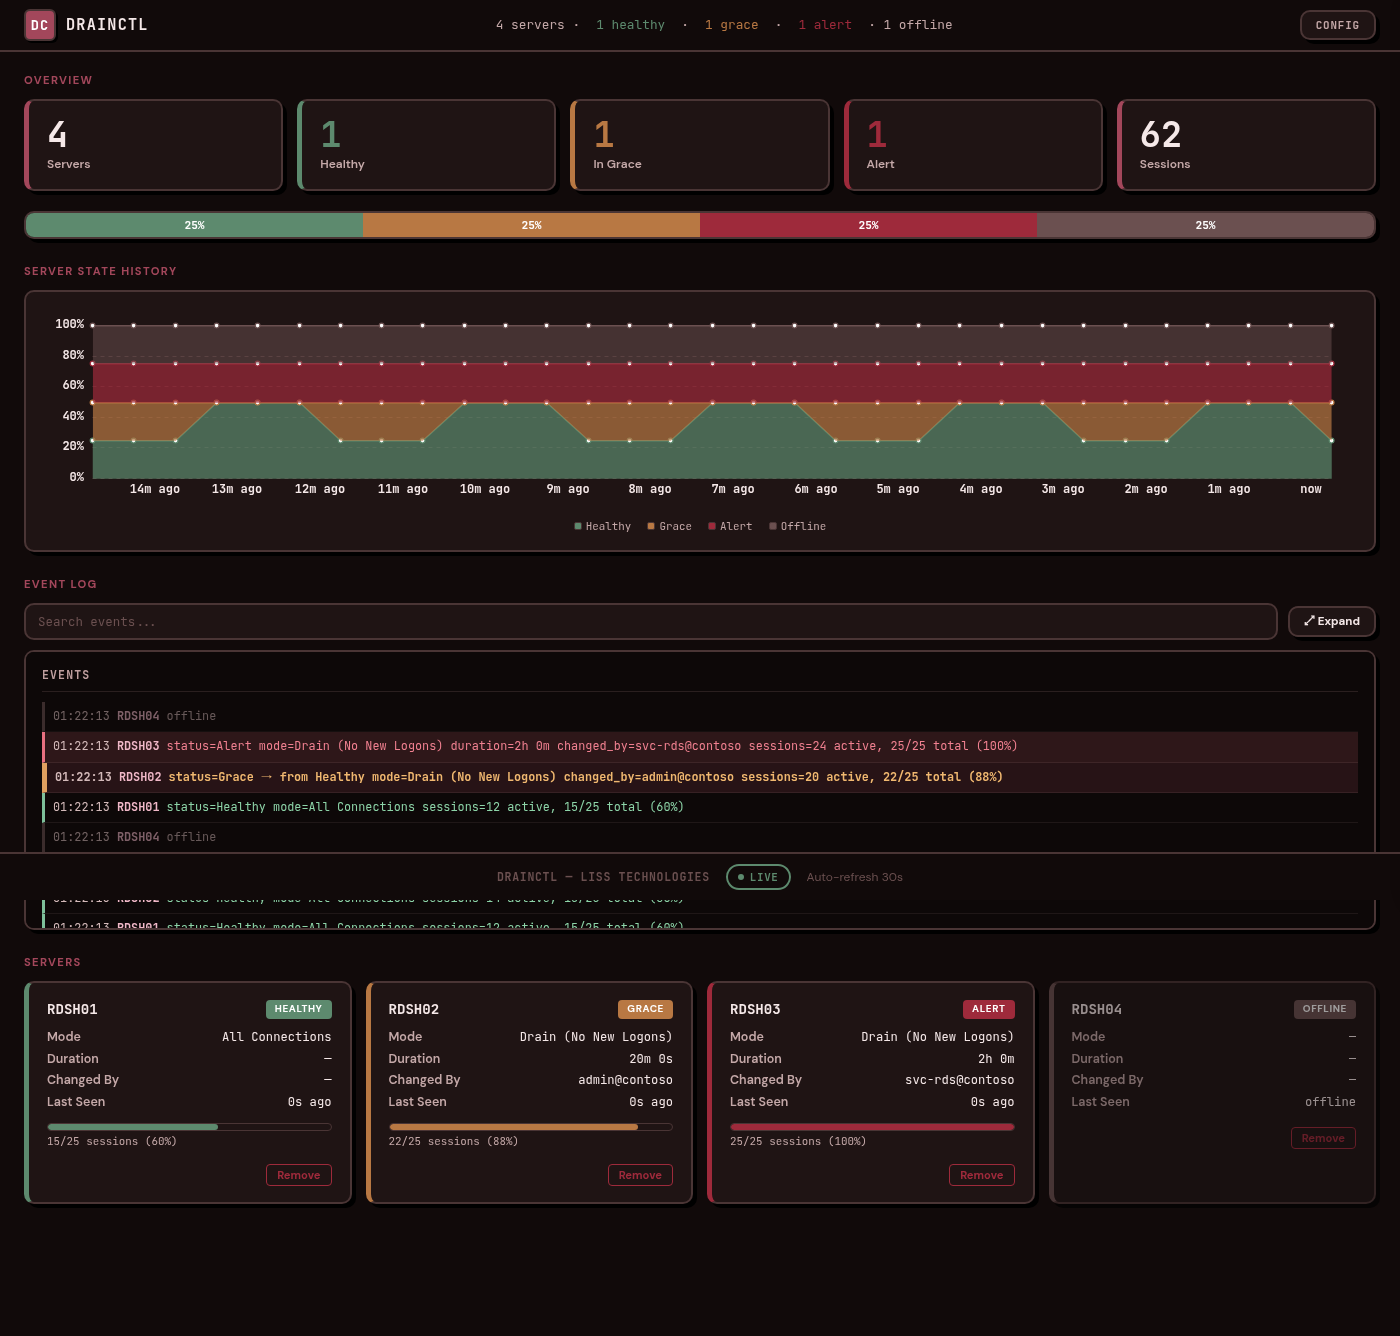
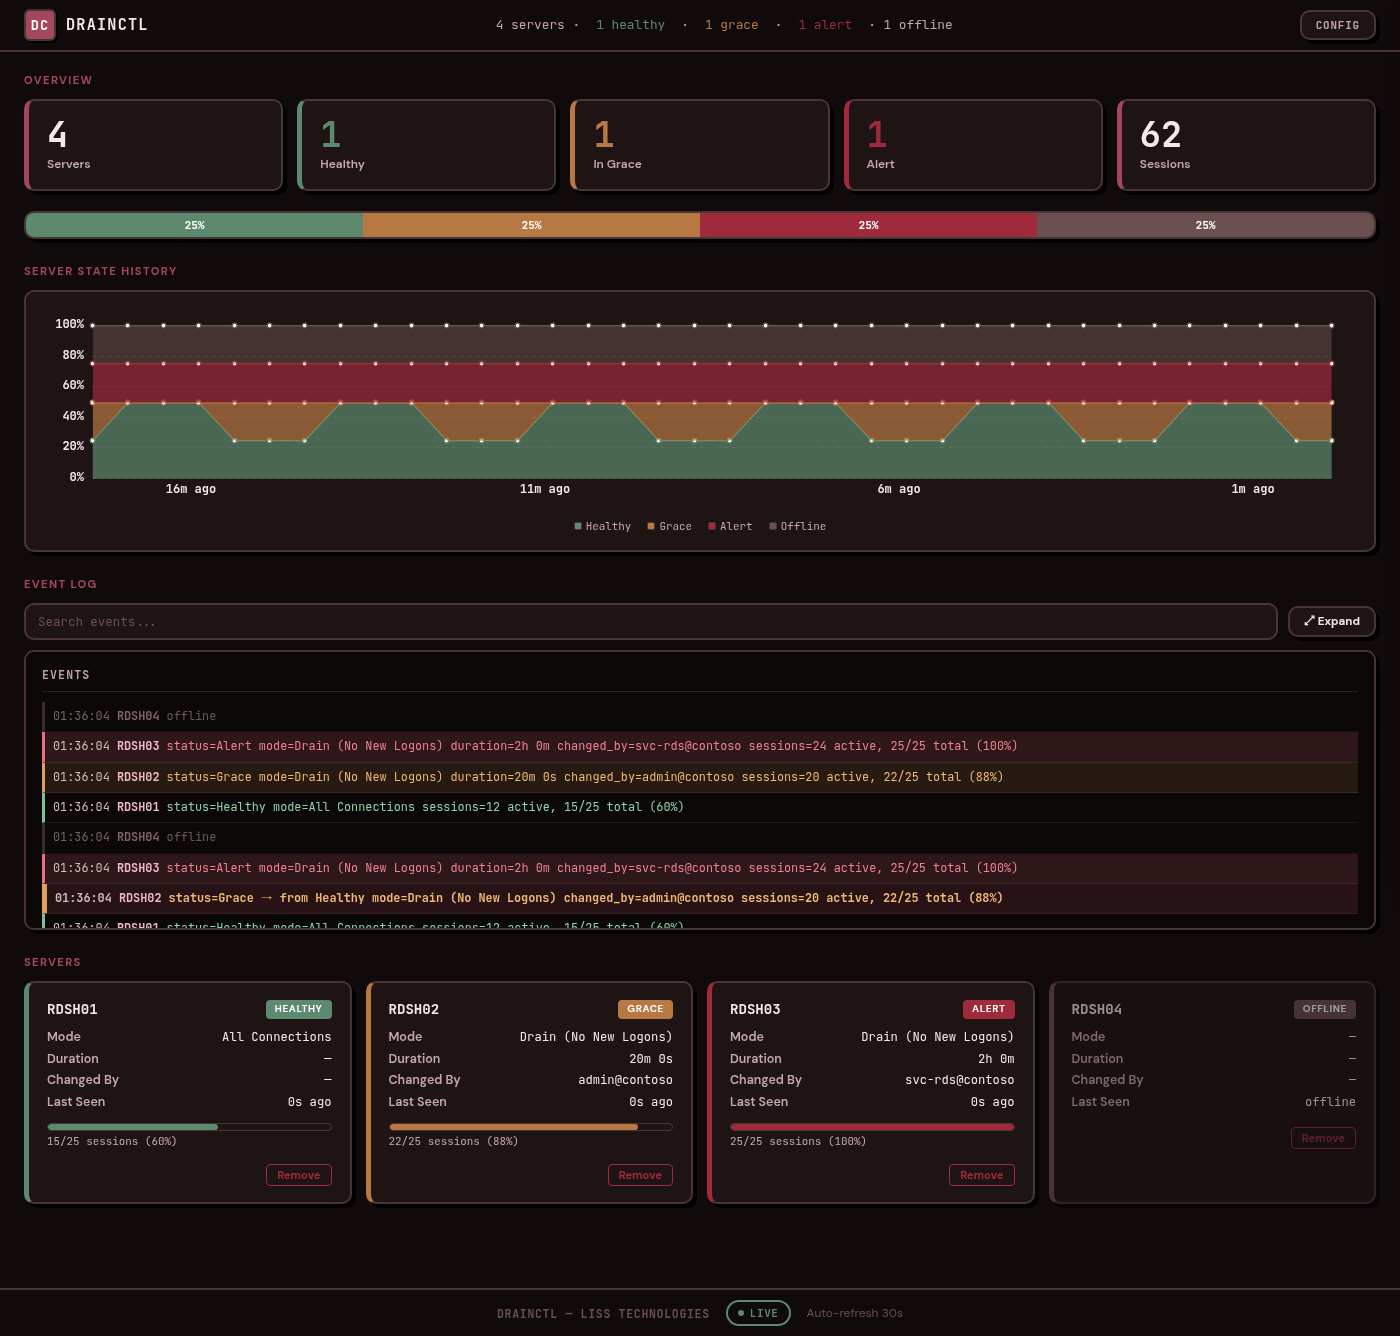
Fix dashboard footer overlap, refresh screenshots
- Remove sticky positioning from footer (was overlapping event log)
- Fresh light + dark mode screenshots with no overlap

diff --git a/internal/dashboard/dashboard.html b/internal/dashboard/dashboard.html
@@ -112,7 +112,7 @@ body{font-family:'DM Sans',sans-serif;background:var(--bg);color:var(--fg);line-
 .gauge-label{font-family:'JetBrains Mono',monospace;font-size:.68rem;color:var(--muted);margin-top:2px;display:block}
 
 /* Footer */
-.footer{position:sticky;bottom:0;background:var(--bg);border-top:var(--bw) solid var(--border);padding:10px 24px;display:flex;align-items:center;justify-content:center;gap:16px;z-index:50}
+.footer{background:var(--bg);border-top:var(--bw) solid var(--border);padding:10px 24px;display:flex;align-items:center;justify-content:center;gap:16px}
 .footer p{font-size:.75rem;color:var(--subtle)}
 .status-pill{display:inline-flex;align-items:center;gap:6px;font-family:'JetBrains Mono',monospace;font-size:.68rem;font-weight:700;padding:3px 10px;border:var(--bw) solid var(--green);border-radius:20px;color:var(--green);text-transform:uppercase;letter-spacing:.06em}
 .status-pill::before{content:'';width:6px;height:6px;border-radius:50%;background:var(--green)}
